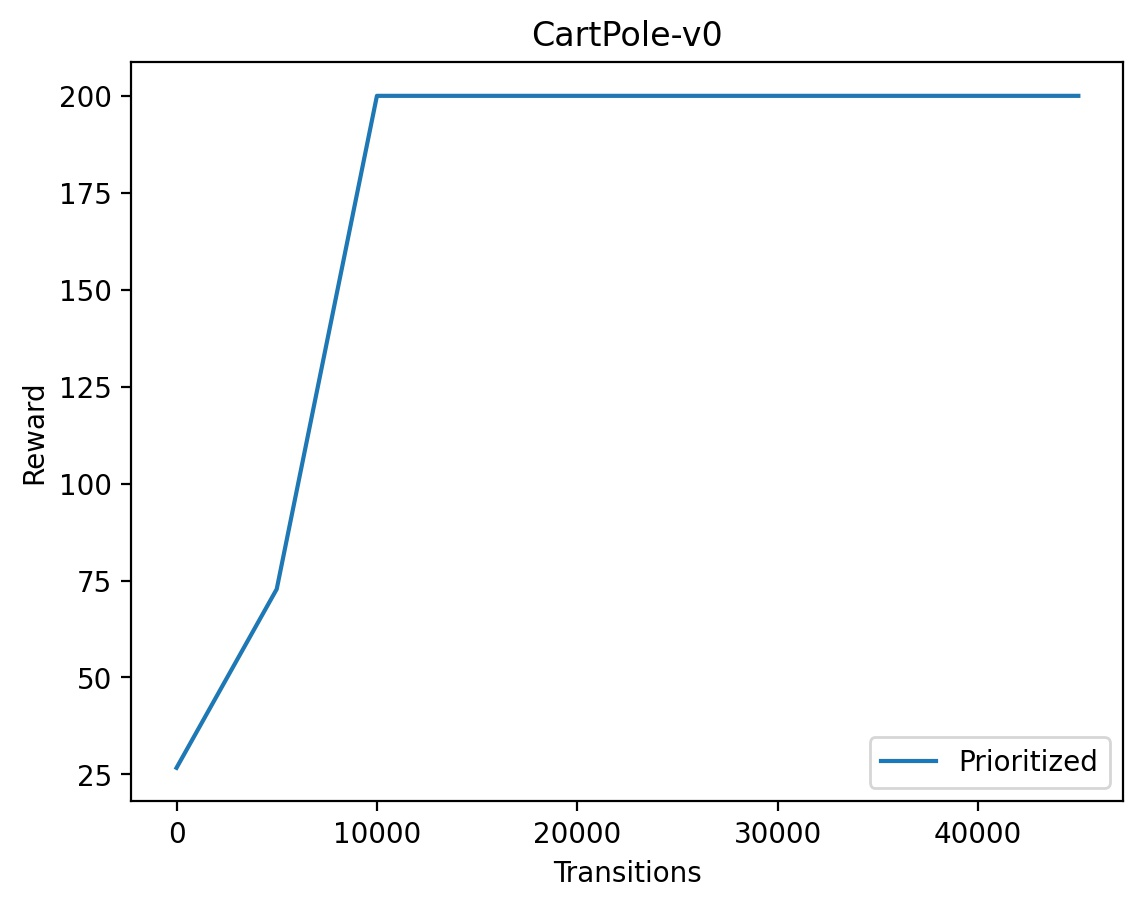
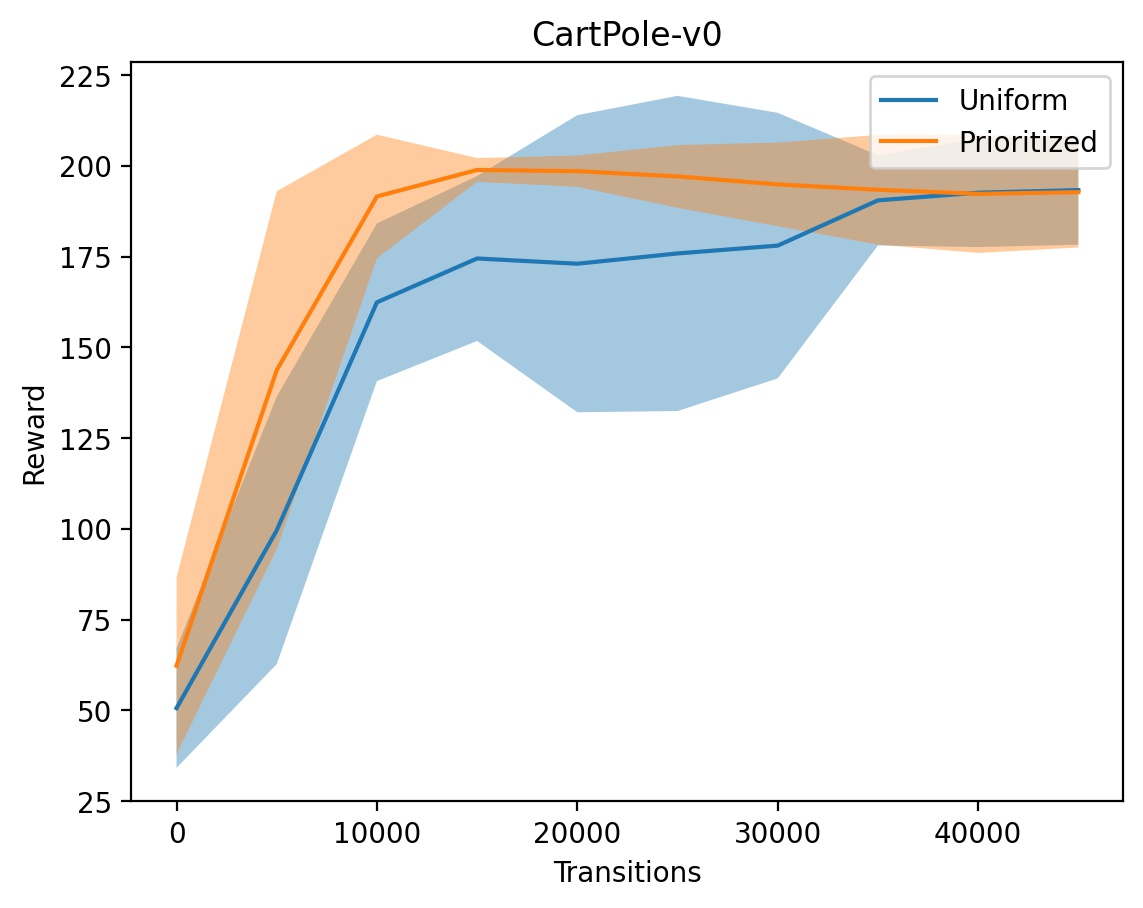
new plots

diff --git a/train.py b/train.py
@@ -78,7 +78,7 @@ def evaluate_policy(env_name, agent, episodes=5, seed=0):
     return np.mean(returns), np.std(returns)
 
 
-def train(env_name, model, buffer, timesteps=200_000, start_train=1000, batch_size=128,
+def train(env_name, model, buffer, timesteps=200_000, batch_size=128,
           eps_max=0.1, eps_min=0.0, test_every=5000, seed=0):
     print("Training on: ", device())
 
@@ -113,7 +113,7 @@ def train(env_name, model, buffer, timesteps=200_000, start_train=1000, batch_si
 
         state = next_state
 
-        if step > start_train:
+        if step > batch_size:
             if isinstance(buffer, ReplayBuffer) or isinstance(buffer, NStepReplayBuffer):
                 batch = buffer.sample(batch_size)
                 loss, td_error = model.update(batch)
@@ -132,15 +132,15 @@ def train(env_name, model, buffer, timesteps=200_000, start_train=1000, batch_si
                 mean, std = evaluate_policy(env_name, model, episodes=10, seed=seed)
 
                 print(f"Episode: {episodes}, Step: {step}, Reward mean: {mean:.2f}, Reward std: {std:.2f}, Loss: {total_loss / loss_count:.4f}, Eps: {eps}")
-                # if hasattr(buffer, 'max_priority'):
-                    # print(f"Max priority: {buffer.max_priority}")
 
                 if mean > best_reward:
                     best_reward = mean
-                    # model.save()
 
                 rewards_total.append(mean)
                 stds_total.append(std)
+
+    if hasattr(buffer, "reset_scheduler"):
+        print("Beta: ", buffer.beta_scheduler(buffer.beta))
 
     return np.array(rewards_total), np.array(stds_total)
 
@@ -149,7 +149,7 @@ def run_experiment(config, use_priority=False, use_nstep=False, n_seeds=10):
     torch.manual_seed(0)
     mean_rewards = []
 
-    for seed in range(5, n_seeds + 5):
+    for seed in range(n_seeds):
         if use_priority:
             buffer = PrioritizedReplayBuffer(**config["buffer"])
         elif use_nstep:
@@ -168,7 +168,7 @@ def run_experiment(config, use_priority=False, use_nstep=False, n_seeds=10):
 
 if __name__ == "__main__":
     import matplotlib.pyplot as plt
-    SEEDS = 1
+    SEEDS = 10
 
     common_config = {
         "buffer": {
@@ -186,18 +186,15 @@ if __name__ == "__main__":
         "train": {
             "env_name": "CartPole-v0",
             "timesteps": 50_000,
-            "start_train": 1000,
             "batch_size": 64,
             "test_every": 5000,
-            "eps_max": 0.8,
-            "eps_min": 0.1,
+            "eps_max": 0.5,
+            "eps_min": 0.05,
         }
     }
 
     priority_config = deepcopy(common_config)
-    # TODO: для чистоты сравнения вырубить эксплоринг, тогда все плюсы будут исключительно от приоритизации, а не рандома
-    # TODO: проверить что при alpha=0, beta=1 результат аналогичен обычному буферу
-    priority_config["buffer"].update({"alpha": 0.6, "beta": 0.4, "beta_scheduler": linear_schedule(1.0, 50_000)})
+    priority_config["buffer"].update({"alpha": 0.7, "beta": 0.4, "beta_scheduler": linear_schedule(1.0, 50_000)})
 
     # nstep_config = deepcopy(common_config)
     # nstep_config["buffer"].update({"n_step": 2, "gamma": 0.99})
@@ -208,8 +205,8 @@ if __name__ == "__main__":
 
     steps = np.arange(mean_priority_reward.shape[0]) * common_config["train"]["test_every"]
 
-    # plt.plot(steps, mean_reward, label="Uniform")
-    # plt.fill_between(steps, mean_reward - std_reward, mean_reward + std_reward, alpha=0.4)
+    plt.plot(steps, mean_reward, label="Uniform")
+    plt.fill_between(steps, mean_reward - std_reward, mean_reward + std_reward, alpha=0.4)
 
     plt.plot(steps, mean_priority_reward, label="Prioritized")
     plt.fill_between(steps, mean_priority_reward - std_priority_reward, mean_priority_reward + std_priority_reward, alpha=0.4)

diff --git a/memory/buffer.py b/memory/buffer.py
@@ -15,7 +15,7 @@ class PrioritizedReplayBuffer:
         self.eps = eps
         self.alpha = alpha
         self.beta = beta
-        self.max_priority = eps # init priority as eps
+        self.max_priority = eps ** alpha # init priority as 0
         self.beta_scheduler = beta_scheduler if beta_scheduler is not None else lambda x: x
 
         # state, action, reward, next_state, done
